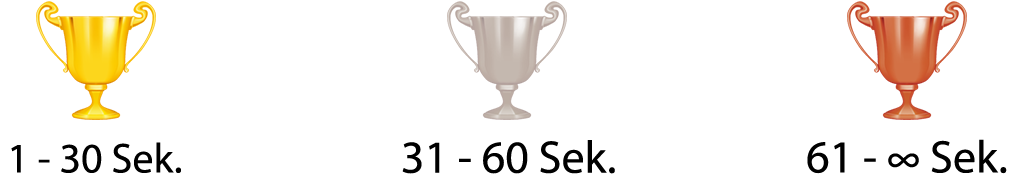
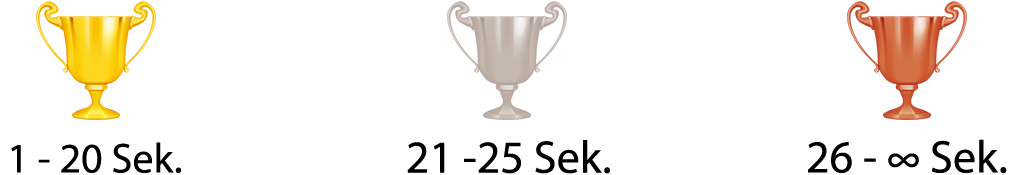
trophies

Changed region(s): [[0.3959, 0.8, 0.609, 1.0], [0.7917, 0.8, 0.8527, 1.0], [0.0609, 0.8286, 0.0914, 1.0]]

diff --git a/Highscores.js b/Highscores.js
@@ -3,41 +3,41 @@ Game.Highscores = function(game) {
 };
 
 //hard
-var level1hardgold = 2
-var level1hardsilber = 5
+var level1hardgold = 7
+var level1hardsilber = 12
 
-var level2hardgold = 4
-var level2hardsilber = 10
+var level2hardgold = 12
+var level2hardsilber = 17
 
-var level3hardgold = 6
-var level3hardsilber = 12
+var level3hardgold = 14
+var level3hardsilber = 19
 
-var level4hardgold = 8
-var level4hardsilber = 14
+var level4hardgold = 13
+var level4hardsilber = 18
 
-var level5hardgold = 2
-var level5hardsilber = 5
+var level5hardgold = 12
+var level5hardsilber = 17
 
-var level6hardgold = 4
-var level6hardsilber = 10
+var level6hardgold = 16
+var level6hardsilber = 21
 
-var level7hardgold = 6
-var level7hardsilber = 12
+var level7hardgold = 13
+var level7hardsilber = 18
 
-var level8hardgold = 8
-var level8hardsilber = 14
+var level8hardgold = 16
+var level8hardsilber = 21
 
-var level9hardgold = 2
-var level9hardsilber = 5
+var level9hardgold = 14
+var level9hardsilber = 19
 
-var level10hardgold = 4
-var level10hardsilber = 10
+var level10hardgold = 18
+var level10hardsilber = 23
 
-var level11hardgold = 6
-var level11hardsilber = 12
+var level11hardgold = 20
+var level11hardsilber = 25
 
-var level12hardgold = 8
-var level12hardsilber = 14
+var level12hardgold = 23
+var level12hardsilber = 28
 
 Game.Highscores.prototype = {
     create:function(game) {
